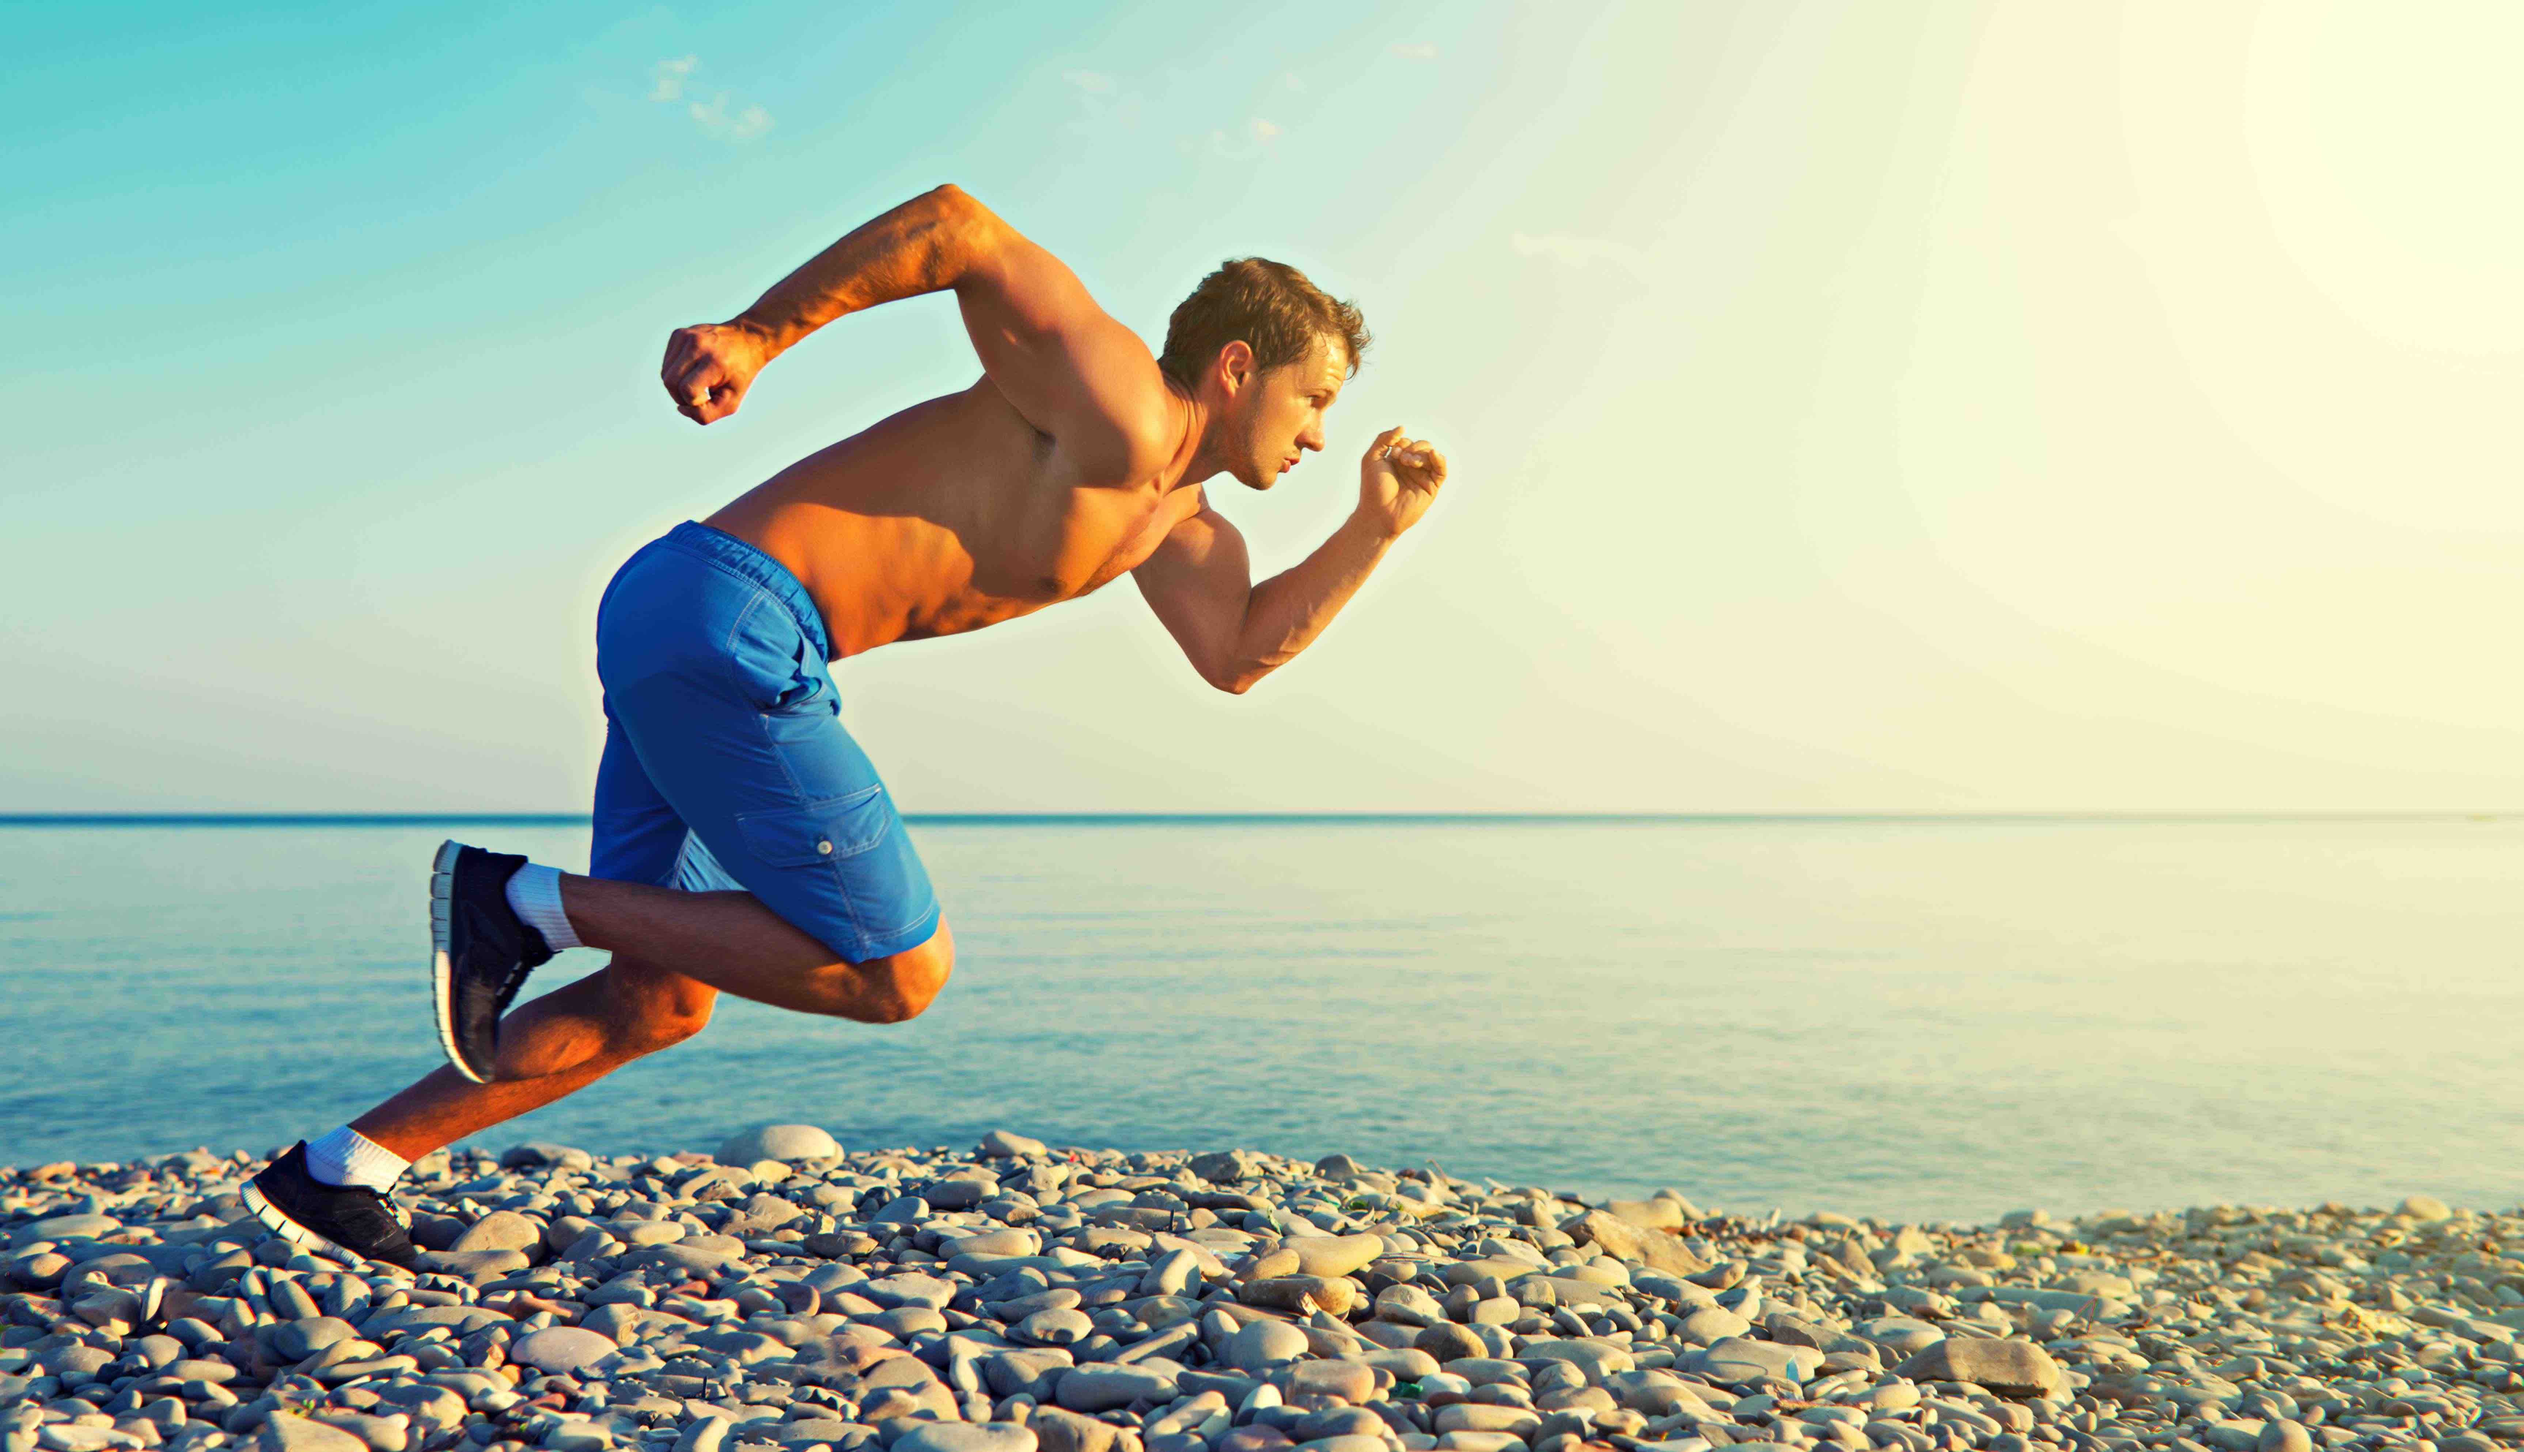
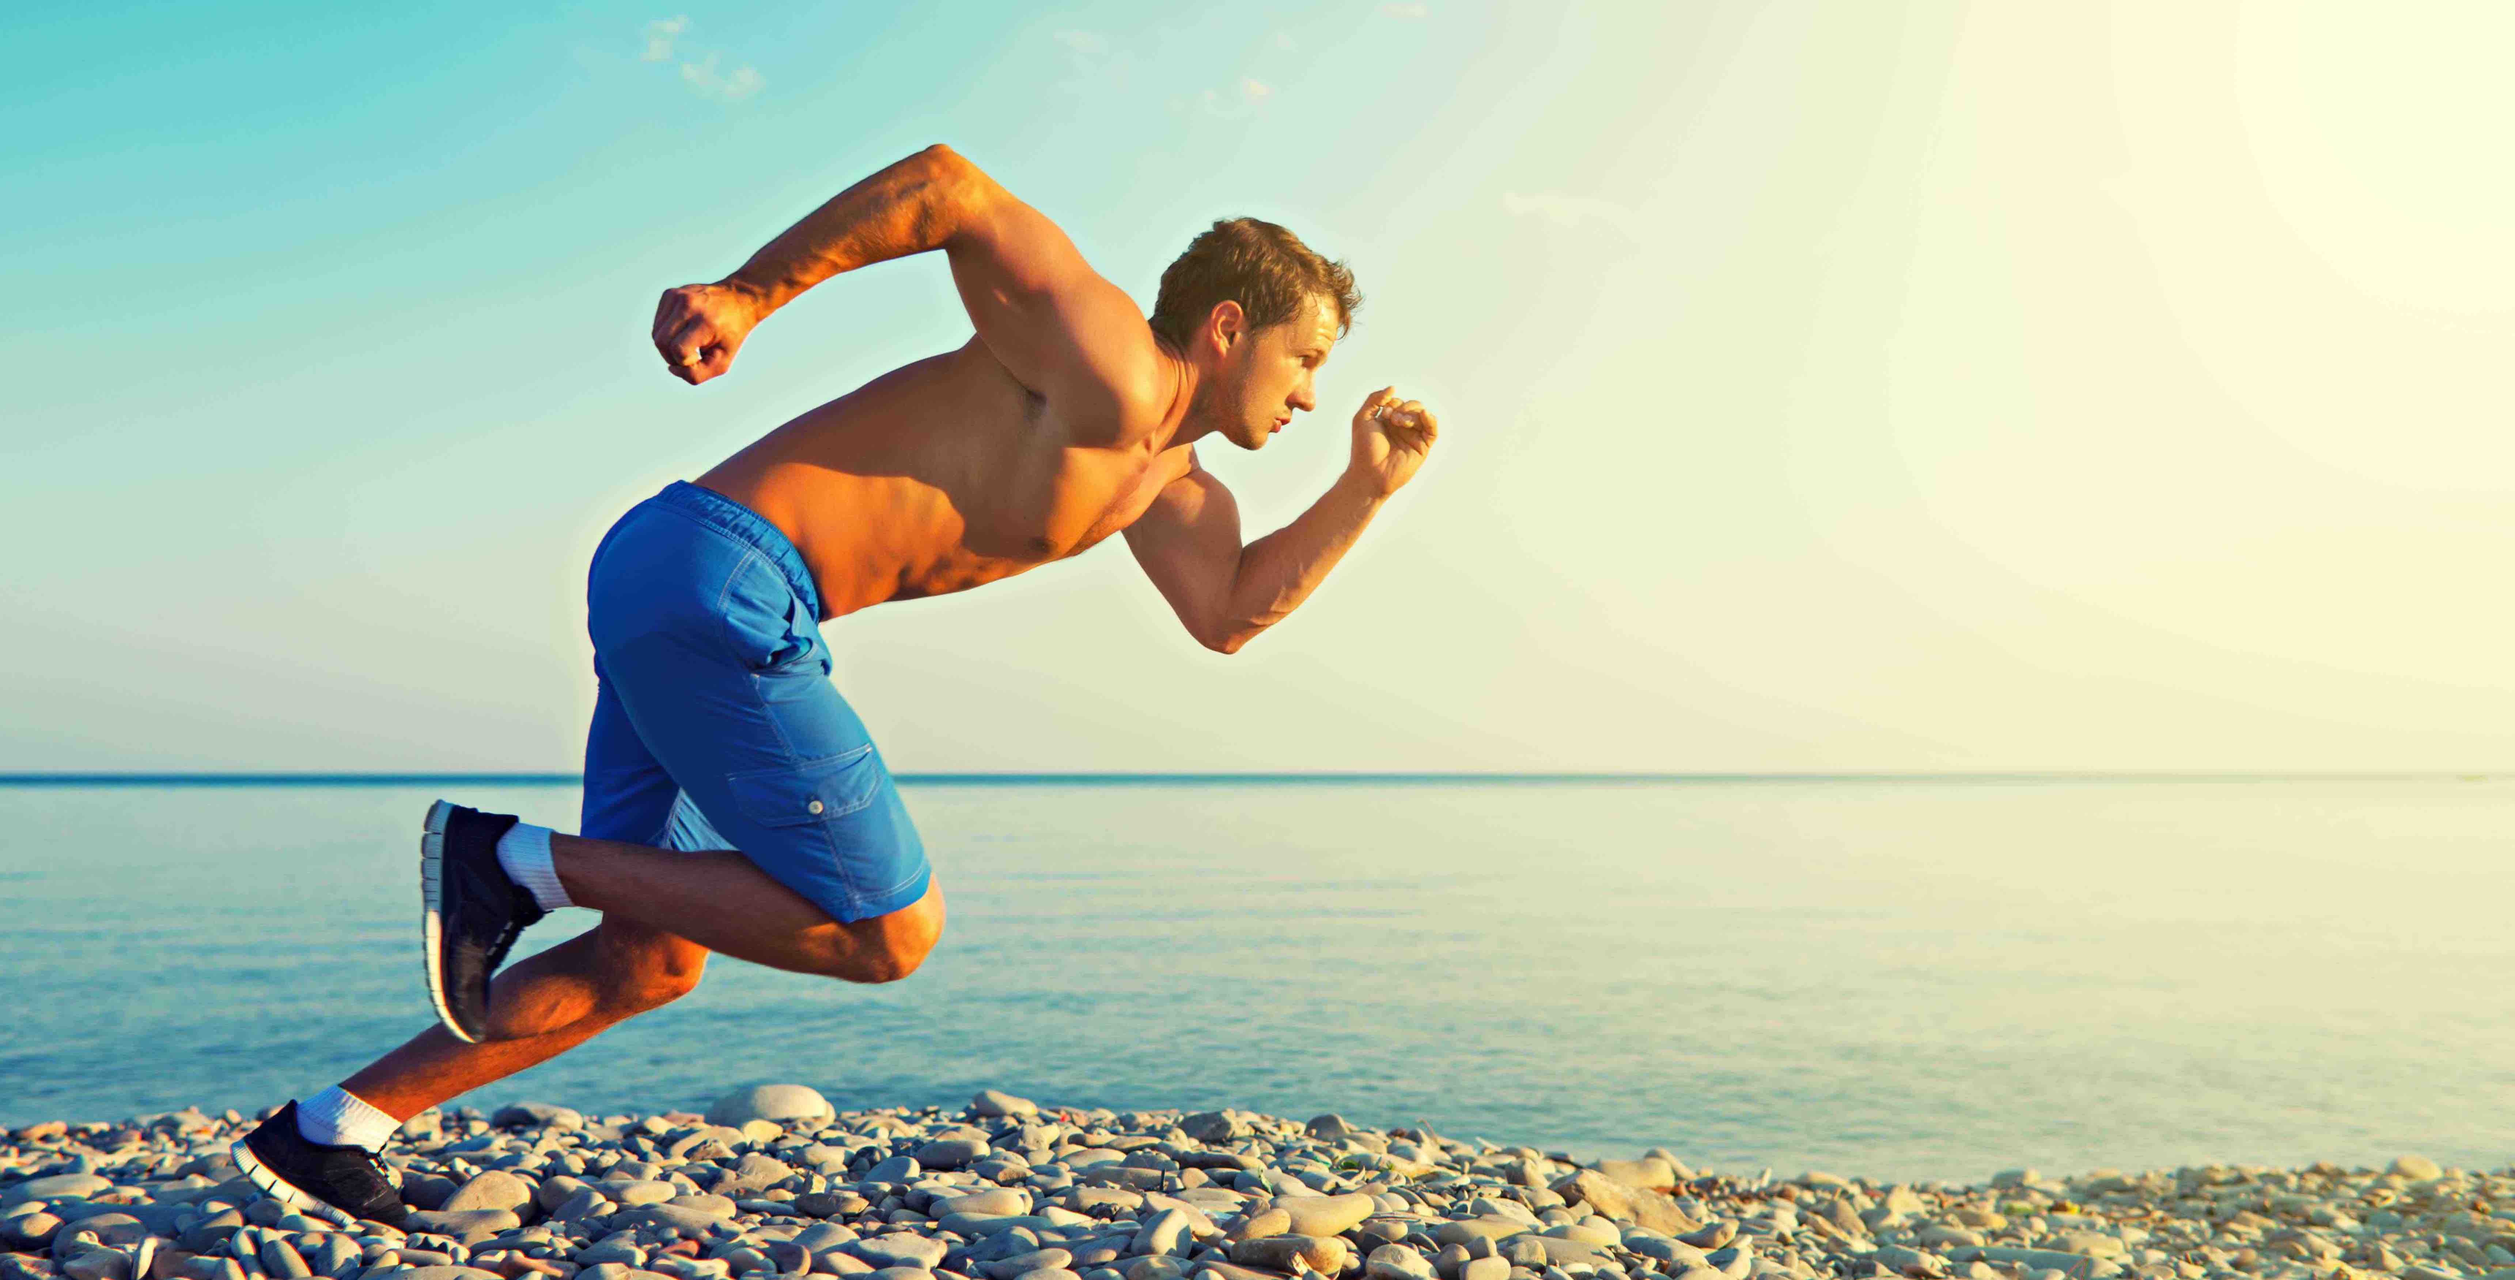
Photo refinement

diff --git a/content/insurance/cigna.md b/content/insurance/cigna.md
@@ -6,7 +6,7 @@ improve their health, well-being and security. We provide an integrated suite of
 life, accident, disability and other wellness benefits to groups and individuals, 
 serving over 45 million people throughout the United States and around the world."
 pic: "images/insurance/cigna.jpg"
-featuredImage: "images/featured-images/knee-min.jpg"
+featuredImage: "images/featured-images/running-min-2.jpg"
 ---
 
 CIGNA is a global health service company, dedicated to helping people improve their 

diff --git a/content/insurance/blue-cross-blue-shield.md b/content/insurance/blue-cross-blue-shield.md
@@ -5,7 +5,7 @@ description: "One of the most trusted names in health coverage, Blue Cross and B
 Shield of Georgia has been providing quality health benefits to state residents for over 
 70 years."
 pic: "images/insurance/bcbs.jpg"
-featuredImage: "images/featured-images/knee-min.jpg"
+featuredImage: "images/featured-images/running-min-2.jpg"
 ---
 
 One of the most trusted names in health coverage, Blue Cross and Blue Shield of Georgia 

diff --git a/content/insurance/aetna.md b/content/insurance/aetna.md
@@ -5,7 +5,7 @@ description: "Offers a broad range of traditional and consumer-directed health i
 products and related services including medical, pharmacy, dental, behavioral health, 
 group life, long-term care, and others."
 pic: "images/insurance/aetna.jpg"
-featuredImage: "images/featured-images/knee-min.jpg"
+featuredImage: "images/featured-images/running-min-2.jpg"
 ---
 
 Dr. Myers accepts Aetna as a form of health insurance.

diff --git a/content/book/_index.md b/content/book/_index.md
@@ -3,6 +3,7 @@ title: "Surviving 7: The Expert's Guide to ACL Surgery: Recovery, Rehabilitation
 date: 2018-07-21T18:29:45-04:00
 description: "Jenna has endured a lifetime of ACL surgeries and has learned how to survive and thrive through all of the setbacks. Use her skills to make your ultimate comeback!"
 author: "Jenna Minecci"
+featuredImage: "images/featured-images/running-min-2.jpg"
 pic: "images/book/JENN2.png"
 ---
 

diff --git a/content/insurance/united-health-care.md b/content/insurance/united-health-care.md
@@ -4,7 +4,7 @@ date: 2018-02-08T23:57:17-05:00
 description: "UnitedHealthcare is an operating division of UnitedHealth Group, the 
 largest single health carrier in the United States."
 pic: "images/insurance/uhc.jpg"
-featuredImage: "images/featured-images/knee-min.jpg"
+featuredImage: "images/featured-images/running-min-2.jpg"
 ---
 
 UnitedHealthcare is an operating division of UnitedHealth Group, the largest single 

diff --git a/content/sports-medicine/five-common-sports-injuries.md b/content/sports-medicine/five-common-sports-injuries.md
@@ -2,7 +2,7 @@
 title: "The Five Most Common Sports Injuries"
 date: 2018-02-11T14:29:44-05:00
 description: ""
-featuredImage: "images/featured-images/baseball.jpg"
+featuredImage: "images/featured-images/running-min-2.jpg"
 ---
 
 Many people play sports in some way or another, whether they are playing for fun in their 

diff --git a/content/prp-injections/_index.md b/content/prp-injections/_index.md
@@ -3,6 +3,7 @@ title: "PRP Injections"
 date: 2018-03-11T23:11:56-04:00
 description: "Platelet Rich Plasma injections are a new technology that uses natural healing factors to treat chronic injuries"
 pic: "images/prp/DRAW.jpeg"
+featuredImage: "images/featured-images/running-min-2.jpg"
 tags: ["newTech"]
 ---
 

diff --git a/content/sports-medicine/_index.md b/content/sports-medicine/_index.md
@@ -3,7 +3,7 @@ title: "Sports Medicine"
 date: 2018-02-11T14:28:34-05:00
 description: ""
 tags: ["edu"]
-featuredImage: "images/featured-images/baseball.jpg"
+featuredImage: "images/featured-images/running-min-2.jpg"
 pic: "images/sports-medicine/pt.jpg"
 ---
 

diff --git a/content/insurance/_index.md b/content/insurance/_index.md
@@ -2,6 +2,6 @@
 title: "Insurance"
 date: 2018-02-06T20:07:02-05:00
 description: ""
-featuredImage: "images/featured-images/knee-min.jpg"
+featuredImage: "images/featured-images/running-min-2.jpg"
 ---
 Myers Sports Medicine accepts these insurance programs.

diff --git a/content/procedures/shoulder-sling.md b/content/procedures/shoulder-sling.md
@@ -2,6 +2,7 @@
 title: "DonJoy UltraSling Quadrant"
 date: 2018-05-29T23:44:06-04:00
 description: ""
+featuredImage: "images/featured-images/running-min-2.jpg"
 pic: "images/procedures/donjoy-ultrasling.jpg"
 ---
 

diff --git a/content/procedures/acl-animation.md b/content/procedures/acl-animation.md
@@ -2,6 +2,7 @@
 title: "ACL Animation"
 date: 2018-05-29T23:43:52-04:00
 description: ""
+featuredImage: "images/featured-images/running-min-2.jpg"
 pic: "images/procedures/acl-animation.jpg"
 ---
 

diff --git a/content/procedures/_index.md b/content/procedures/_index.md
@@ -2,5 +2,6 @@
 title: "Featured Procedures"
 date: 2018-05-22T08:58:16-04:00
 description: ""
+featuredImage: "images/featured-images/running-min-2.jpg"
 pic: ""
 ---
